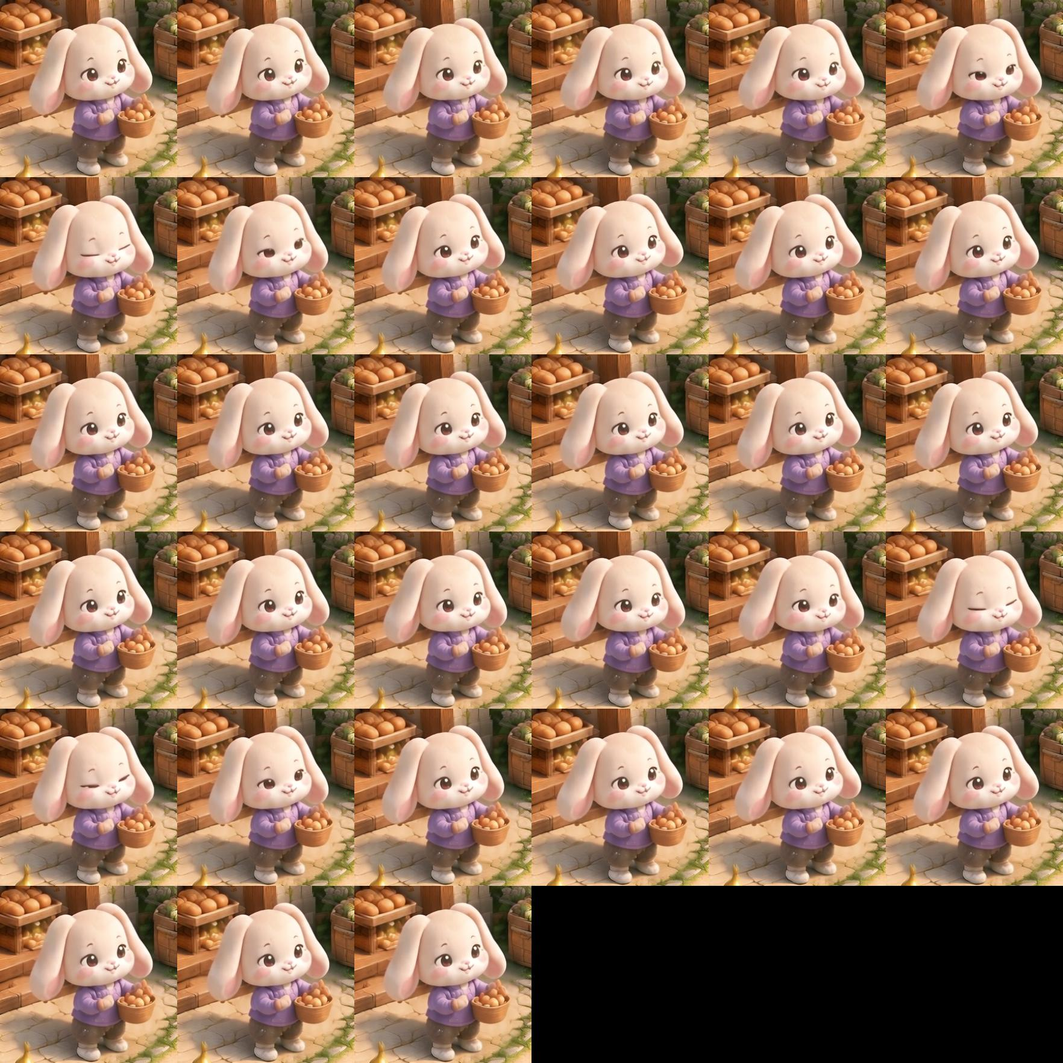
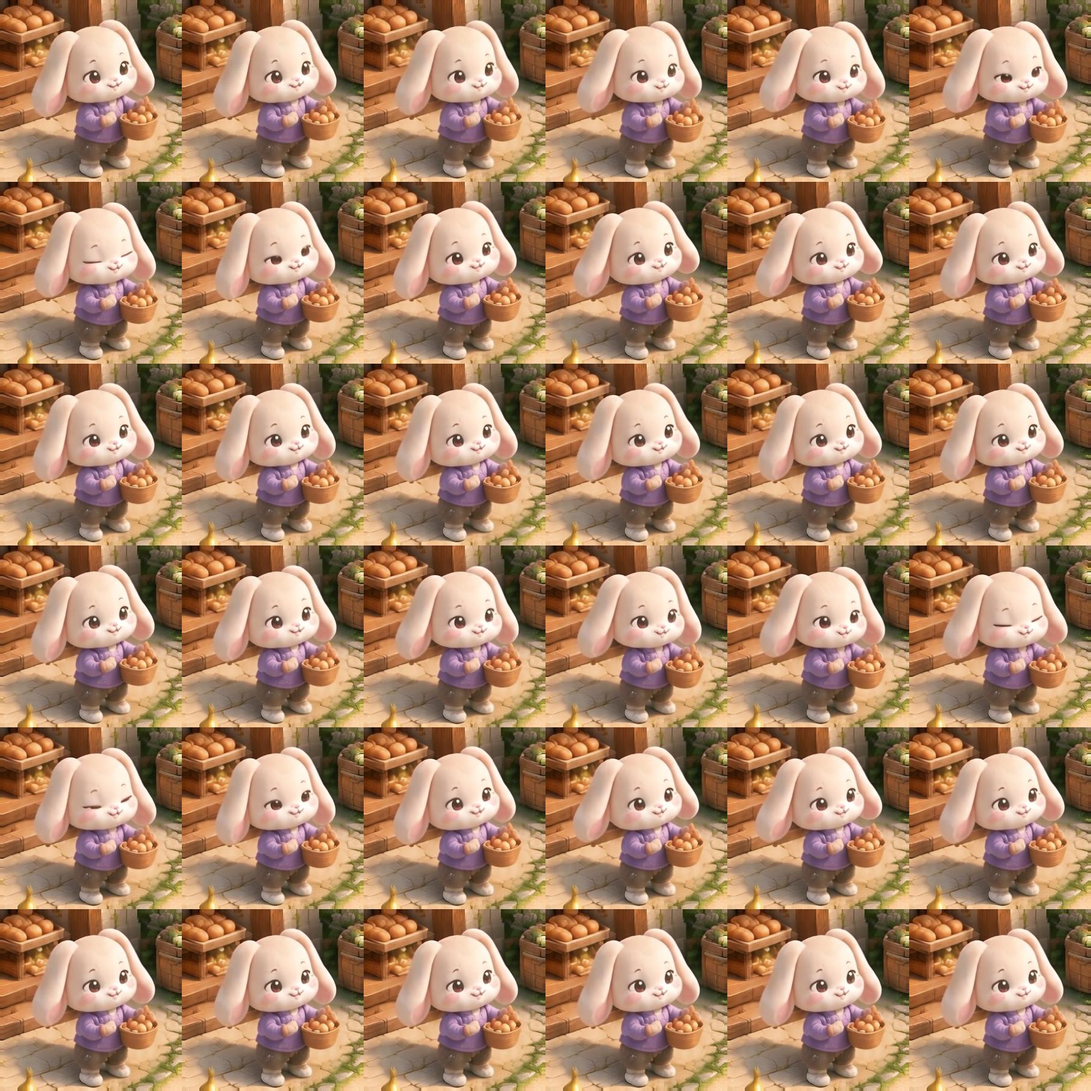
fix: 微信真机画面模糊 + 鱼漂动画偶发黑线
- game.js：主画布按 windowWidth/Height × pixelRatio（封顶 3）重设为物理像素，
  原来按逻辑像素建画布、高分屏拉伸显示导致地图/图标/文字发虚
- make-map-anim.py：图集每帧四周留 4px 外扩边，最后一行空格用末帧填满；
  mapAnim.ts 新增 pad，MapBootstrap 切帧跳过留边；8 张图集重新生成（已上传服务器）

Changed region(s): [[0.0, 0.0, 1.0, 1.0], [0.0, 0.0, 0.0624, 0.0935]]

diff --git a/20260916075716/工程/CandyMapDemo/assets/scripts/场景/mapAnim.ts b/20260916075716/工程/CandyMapDemo/assets/scripts/场景/mapAnim.ts
@@ -1,24 +1,25 @@
 /** 首页底图动画块 —— 由 tools/make-map-anim.py 生成，请勿手改。
  *
  * 每块 = 一张网格图集（从左到右、从上到下排帧），运行时来回播放（正放再倒放）。
+ * 每格 = 帧（fw × fh）四周再留 pad px 外扩边，切帧时 rect 要跳过这圈留边。
  * x / y = 块中心、w / h = 显示尺寸，都是轨道坐标（1536 × 5462，y 从上往下），与 levelTable 同口径。
  * 图集已把动区边缘羽化烘焙进底图，所以是不透明 jpg，叠在底图上看不出接缝。
  */
 export interface MapAnimDef {
-    path: string; fps: number; frames: number; cols: number; fw: number; fh: number;
+    path: string; fps: number; frames: number; cols: number; fw: number; fh: number; pad: number;
     x: number; y: number; w: number; h: number;
 }
 
 /** key = WORLDS[].art */
 export const MAP_ANIM: Record<string, MapAnimDef[]> = {
   'xiaozhen': [
-    { path: 'map-anim/xiaozhen-0', fps: 8.05, frames: 33, cols: 8, fw: 244, fh: 265, x: 1362, y: 974, w: 347, h: 377 },
-    { path: 'map-anim/xiaozhen-1', fps: 8.05, frames: 33, cols: 6, fw: 294, fh: 294, x: 223, y: 1082, w: 418, h: 418 },
-    { path: 'map-anim/xiaozhen-2', fps: 8.05, frames: 33, cols: 7, fw: 275, fh: 295, x: 1340, y: 2083, w: 391, h: 420 },
-    { path: 'map-anim/xiaozhen-3', fps: 8.05, frames: 33, cols: 9, fw: 209, fh: 295, x: 154, y: 2518, w: 297, h: 420 },
-    { path: 'map-anim/xiaozhen-4', fps: 8.05, frames: 33, cols: 8, fw: 232, fh: 324, x: 1354, y: 3013, w: 330, h: 461 },
-    { path: 'map-anim/xiaozhen-5', fps: 8.05, frames: 33, cols: 8, fw: 232, fh: 263, x: 488, y: 3446, w: 330, h: 374 },
-    { path: 'map-anim/xiaozhen-6', fps: 8.05, frames: 33, cols: 6, fw: 299, fh: 324, x: 224, y: 4052, w: 425, h: 461 },
-    { path: 'map-anim/xiaozhen-7', fps: 8.05, frames: 33, cols: 10, fw: 192, fh: 274, x: 415, y: 4463, w: 273, h: 390 },
+    { path: 'map-anim/xiaozhen-0', fps: 8.05, frames: 33, cols: 8, fw: 244, fh: 265, pad: 4, x: 1362, y: 974, w: 347, h: 377 },
+    { path: 'map-anim/xiaozhen-1', fps: 8.05, frames: 33, cols: 6, fw: 294, fh: 294, pad: 4, x: 223, y: 1082, w: 418, h: 418 },
+    { path: 'map-anim/xiaozhen-2', fps: 8.05, frames: 33, cols: 7, fw: 275, fh: 295, pad: 4, x: 1340, y: 2083, w: 391, h: 420 },
+    { path: 'map-anim/xiaozhen-3', fps: 8.05, frames: 33, cols: 9, fw: 209, fh: 295, pad: 4, x: 154, y: 2518, w: 297, h: 420 },
+    { path: 'map-anim/xiaozhen-4', fps: 8.05, frames: 33, cols: 8, fw: 232, fh: 324, pad: 4, x: 1354, y: 3013, w: 330, h: 461 },
+    { path: 'map-anim/xiaozhen-5', fps: 8.05, frames: 33, cols: 8, fw: 232, fh: 263, pad: 4, x: 488, y: 3446, w: 330, h: 374 },
+    { path: 'map-anim/xiaozhen-6', fps: 8.05, frames: 33, cols: 6, fw: 299, fh: 324, pad: 4, x: 224, y: 4052, w: 425, h: 461 },
+    { path: 'map-anim/xiaozhen-7', fps: 8.05, frames: 33, cols: 10, fw: 192, fh: 274, pad: 4, x: 415, y: 4463, w: 273, h: 390 },
   ],
 };

diff --git a/20260916075716/工程/CandyMapDemo/minigame/src/scripts/scenes/mapAnim.js b/20260916075716/工程/CandyMapDemo/minigame/src/scripts/scenes/mapAnim.js
@@ -1,24 +1,25 @@
 /** 首页底图动画块 —— 由 tools/make-map-anim.py 生成，请勿手改。
  *
  * 每块 = 一张网格图集（从左到右、从上到下排帧），运行时来回播放（正放再倒放）。
+ * 每格 = 帧（fw × fh）四周再留 pad px 外扩边，切帧时 rect 要跳过这圈留边。
  * x / y = 块中心、w / h = 显示尺寸，都是轨道坐标（1536 × 5462，y 从上往下），与 levelTable 同口径。
  * 图集已把动区边缘羽化烘焙进底图，所以是不透明 jpg，叠在底图上看不出接缝。
  */
                              
-                                                                                    
+                                                                                                 
                                                
  
 
 /** key = WORLDS[].art */
 export const MAP_ANIM                               = {
   'xiaozhen': [
-    { path: 'map-anim/xiaozhen-0', fps: 8.05, frames: 33, cols: 8, fw: 244, fh: 265, x: 1362, y: 974, w: 347, h: 377 },
-    { path: 'map-anim/xiaozhen-1', fps: 8.05, frames: 33, cols: 6, fw: 294, fh: 294, x: 223, y: 1082, w: 418, h: 418 },
-    { path: 'map-anim/xiaozhen-2', fps: 8.05, frames: 33, cols: 7, fw: 275, fh: 295, x: 1340, y: 2083, w: 391, h: 420 },
-    { path: 'map-anim/xiaozhen-3', fps: 8.05, frames: 33, cols: 9, fw: 209, fh: 295, x: 154, y: 2518, w: 297, h: 420 },
-    { path: 'map-anim/xiaozhen-4', fps: 8.05, frames: 33, cols: 8, fw: 232, fh: 324, x: 1354, y: 3013, w: 330, h: 461 },
-    { path: 'map-anim/xiaozhen-5', fps: 8.05, frames: 33, cols: 8, fw: 232, fh: 263, x: 488, y: 3446, w: 330, h: 374 },
-    { path: 'map-anim/xiaozhen-6', fps: 8.05, frames: 33, cols: 6, fw: 299, fh: 324, x: 224, y: 4052, w: 425, h: 461 },
-    { path: 'map-anim/xiaozhen-7', fps: 8.05, frames: 33, cols: 10, fw: 192, fh: 274, x: 415, y: 4463, w: 273, h: 390 },
+    { path: 'map-anim/xiaozhen-0', fps: 8.05, frames: 33, cols: 8, fw: 244, fh: 265, pad: 4, x: 1362, y: 974, w: 347, h: 377 },
+    { path: 'map-anim/xiaozhen-1', fps: 8.05, frames: 33, cols: 6, fw: 294, fh: 294, pad: 4, x: 223, y: 1082, w: 418, h: 418 },
+    { path: 'map-anim/xiaozhen-2', fps: 8.05, frames: 33, cols: 7, fw: 275, fh: 295, pad: 4, x: 1340, y: 2083, w: 391, h: 420 },
+    { path: 'map-anim/xiaozhen-3', fps: 8.05, frames: 33, cols: 9, fw: 209, fh: 295, pad: 4, x: 154, y: 2518, w: 297, h: 420 },
+    { path: 'map-anim/xiaozhen-4', fps: 8.05, frames: 33, cols: 8, fw: 232, fh: 324, pad: 4, x: 1354, y: 3013, w: 330, h: 461 },
+    { path: 'map-anim/xiaozhen-5', fps: 8.05, frames: 33, cols: 8, fw: 232, fh: 263, pad: 4, x: 488, y: 3446, w: 330, h: 374 },
+    { path: 'map-anim/xiaozhen-6', fps: 8.05, frames: 33, cols: 6, fw: 299, fh: 324, pad: 4, x: 224, y: 4052, w: 425, h: 461 },
+    { path: 'map-anim/xiaozhen-7', fps: 8.05, frames: 33, cols: 10, fw: 192, fh: 274, pad: 4, x: 415, y: 4463, w: 273, h: 390 },
   ],
 };

diff --git a/20260916075716/工程/CandyMapDemo/minigame/game.js b/20260916075716/工程/CandyMapDemo/minigame/game.js
@@ -3,7 +3,8 @@
  *
  * 与 `preview/map.html` 同构：Canvas 根节点 → Bootstrap 子节点挂 MapBootstrap →
  * Renderer 驱动渲染 / 生命周期 / 触摸。区别只在画布来源：
- *   - 微信小游戏：wx.createCanvas() 的主画布（物理全屏，FIXED_WIDTH 可视高度见运行时）
+ *   - 微信小游戏：wx.createCanvas() 的主画布（默认逻辑像素尺寸，下面按 pixelRatio 重设为物理像素；
+ *     FIXED_WIDTH 可视高度见运行时）
  *   - 浏览器验证：browser.html 里的 #cv（按窗口尺寸铺满，验证长屏几何）
  *
  * 本文件由 tools/build-minigame.ts 之外手工维护（不参与 TS 剥离），纯 JS。
@@ -22,6 +23,17 @@ registerFont('PPHand', WX ? 'fonts/pp-hand.ttf' : './fonts/pp-hand.ttf');
 let canvas;
 if (WX) {
   canvas = wx.createCanvas();   // 首个 createCanvas 即全屏主画布
+  // 2026-10-30 真机模糊：主画布默认是「逻辑像素」尺寸（如 393×852），屏幕再按 pixelRatio（2~3）
+  // 拉伸显示，地图 / 图标 / 文字全部发虚。按物理像素重设画布尺寸，渲染器按 canvas.width / 1080 缩放，
+  // 布局和触摸（按逻辑窗口换算）都不受影响。pixelRatio 封顶 3，防个别安卓机报 3.5+ 时画布过大掉帧
+  try {
+    const info = typeof wx.getWindowInfo === 'function' ? wx.getWindowInfo() : wx.getSystemInfoSync();
+    const dpr = Math.min(3, (info && info.pixelRatio) || 1);
+    if (info && info.windowWidth > 0 && info.windowHeight > 0) {
+      canvas.width = Math.round(info.windowWidth * dpr);
+      canvas.height = Math.round(info.windowHeight * dpr);
+    }
+  } catch (e) { /* 拿不到窗口信息就保持默认尺寸 */ }
 } else {
   canvas = document.getElementById('cv');
   // 浏览器验证：画布按布局矩形铺满（不信任 innerHeight —— 无头窗口里有工具条偏移，

diff --git a/20260916075716/工程/CandyMapDemo/assets/scripts/场景/MapBootstrap.ts b/20260916075716/工程/CandyMapDemo/assets/scripts/场景/MapBootstrap.ts
@@ -706,10 +706,13 @@ export class MapBootstrap extends Component {
             this.loadFrame(def.path, (sheet) => {
                 if (token !== this.bgToken || !sp.isValid) return;
                 const frames: SpriteFrame[] = [];
+                // 每格四周有 pad px 留边（防缩放采样吃到隔壁格子 / 空格的黑色，2026-10-30 鱼漂黑线）
+                const cw = def.fw + 2 * def.pad;
+                const ch = def.fh + 2 * def.pad;
                 for (let i = 0; i < def.frames; i++) {
                     const f = new SpriteFrame();
                     f.texture = sheet.texture;
-                    f.rect = new Rect((i % def.cols) * def.fw, Math.floor(i / def.cols) * def.fh, def.fw, def.fh);
+                    f.rect = new Rect((i % def.cols) * cw + def.pad, Math.floor(i / def.cols) * ch + def.pad, def.fw, def.fh);
                     frames.push(f);
                 }
                 sp.spriteFrame = frames[0];

diff --git a/20260916075716/工程/CandyMapDemo/minigame/src/scripts/scenes/MapBootstrap.js b/20260916075716/工程/CandyMapDemo/minigame/src/scripts/scenes/MapBootstrap.js
@@ -705,10 +705,13 @@ export class MapBootstrap extends Component {
             this.loadFrame(def.path, (sheet) => {
                 if (token !== this.bgToken || !sp.isValid) return;
                 const frames                = [];
+                // 每格四周有 pad px 留边（防缩放采样吃到隔壁格子 / 空格的黑色，2026-10-30 鱼漂黑线）
+                const cw = def.fw + 2 * def.pad;
+                const ch = def.fh + 2 * def.pad;
                 for (let i = 0; i < def.frames; i++) {
                     const f = new SpriteFrame();
                     f.texture = sheet.texture;
-                    f.rect = new Rect((i % def.cols) * def.fw, Math.floor(i / def.cols) * def.fh, def.fw, def.fh);
+                    f.rect = new Rect((i % def.cols) * cw + def.pad, Math.floor(i / def.cols) * ch + def.pad, def.fw, def.fh);
                     frames.push(f);
                 }
                 sp.spriteFrame = frames[0];

diff --git a/20260916075716/工程/CandyMapDemo/README.md b/20260916075716/工程/CandyMapDemo/README.md
@@ -45,7 +45,11 @@ CandyMapDemo/
 
 节点坐标由 `generateLevelPositions()` 生成，正弦摆动，可替换为外部坐标表。
 
-## 近期更新（2026-10-21 ~ 29）
+## 近期更新（2026-10-21 ~ 30）
+
+- **2026-10-30（真机画面模糊）**：微信里地图、首页 / 排行榜 / 图鉴 / 设置图标和文字都发虚。根因：`wx.createCanvas()` 主画布默认是**逻辑像素**尺寸（如 393×852），高分屏再按 pixelRatio（2~3）拉伸显示，等于只有 1/3 的清晰度。`minigame/game.js` 创建主画布后按 `windowWidth/Height × pixelRatio`（封顶 3）重设宽高；渲染器本来就按 `canvas.width / 1080` 缩放、触摸按逻辑窗口换算、好友榜 sharedCanvas 按主画布宽度出图，所以布局、点击、可视高度都不变。Node 里模拟微信环境（393×852 @3x）验证：画布 1179×2556，渲染缩放 0.364→1.092，可视高 2341 与改前一致，屏幕中心 / 右上角触摸换算为设计坐标 (0,0) / (540,1171)。255 测试通过。需重新上传小游戏代码才生效（素材不用重传）。
+
+- **2026-10-30（鱼漂动画偶发黑线）**：鱼漂块 `xiaozhen-7` 播放时底边时不时闪一条黑线。根因：图集里帧紧挨着排、最后一行只填了 3 帧、其余 7 格是纯黑；第 3 行第 4~10 帧正下方就是黑格，缩放采样会吃到相邻 1px，播到这几帧就露黑线（其他块同理，只是没那么明显）。`make-map-anim.py` 改为每帧四周留 4px 外扩边（帧边缘像素复制填充），最后一行空格用最后一帧填满；`mapAnim.ts` 每块新增 `pad`，`MapBootstrap.buildAnims` 切帧时跳过留边。重新生成 8 张图集（合计约 3.4MB，+0.5MB），逐帧检查切出的帧边缘与底图差异 ≤ 4.3（jpg 噪声级），鱼漂图集已无纯黑像素。**新图集与旧代码不兼容**（格子尺寸变了），图集与小游戏代码要一起上线。已上传：8 张新图集覆盖 `/home/game/mini-assets/pp/map-anim/`（上一版整目录备份为 `pp/map-anim.bak-20261030`），服务器端与公网各 8 个文件 md5 与本地一致，未动 nginx / 容器。小游戏代码尚待在开发者工具里上传。
 
 - **2026-10-29（首页动物动起来 · 样例，仅本地）**：小镇底图换成 `UI及角色/首页/微信图片_20261029204357_54_1341.jpg`，并用即梦生成的两段视频（`视频+1.mp4` 上半屏、`视频+2.mp4` 下半屏，各 1080×1920 / 4 秒）让动物动起来。新增 `tools/make-map-anim.py`：拟合「视频帧 → 原图」的缩放平移（两段分别放大 2.0% / 1.5%，相关系数 0.90 / 0.92），按时间标准差找出会动的区域（共 7 块），反向变换回原图坐标、在静止像素上拟合颜色、边缘羽化后烘焙进原图，每块输出一张不透明 jpg 网格图集（33 帧 @8fps，合计约 2.7MB）到 `assets/resources/map-anim/`，并生成坐标表 `assets/scripts/场景/mapAnim.ts`。底图仍是原图，所以上下两屏接缝和原图一致；块边缘与底图差异约 4~5（jpg 噪声级）。`MapBootstrap` 新增 `Anims` 层（底图之上、珠子之下），`update` 里来回播放（正放再倒放，首尾不跳），图集没加载到时就是静态底图。关卡节点按新图石板路重新摆（相邻间距约 300 原图 px，第 5→6 关因路形稍长），写回 `C:\idea-xiao\tupian2\xiaozhen.map.json`（含新底图，旧版备份为 `xiaozhen.map.旧底图备份-20261029.json`）并重新生成 `levelTable.ts`。无头 Chrome 验证：7 块全部加载，手动推进 update 帧号 1→31 后回到 23（来回播放正确），无报错。**未上传服务器、未提交**；web 版仍是旧底图 + `ROAD_X`。
   - 同日修：左右两边动物被裁掉一截。原缩放 `k = 可视高 / 2731` 让一页铺满一屏，长屏（可视高 > 1920，如 19.5:9）上轨道被放宽到超过屏宽、左右各裁掉一段。改为 `k = min(可视高 / 2731, 1080 / 1536)`：长屏按宽铺满不裁，两页上下重叠，翻页改为第 0 页顶对齐、最后一页底对齐（`minOffset / maxOffset / pageOffset / nearestPage` 按轨道实际高度算）。无头 Chrome 实测：1080×1920 屏 k、翻页位置与改前完全一致（±960）；1080×2340 长屏轨道宽 1080（改前约 1316，两边各裁 118），翻页 ±750，最近页判定正确。
